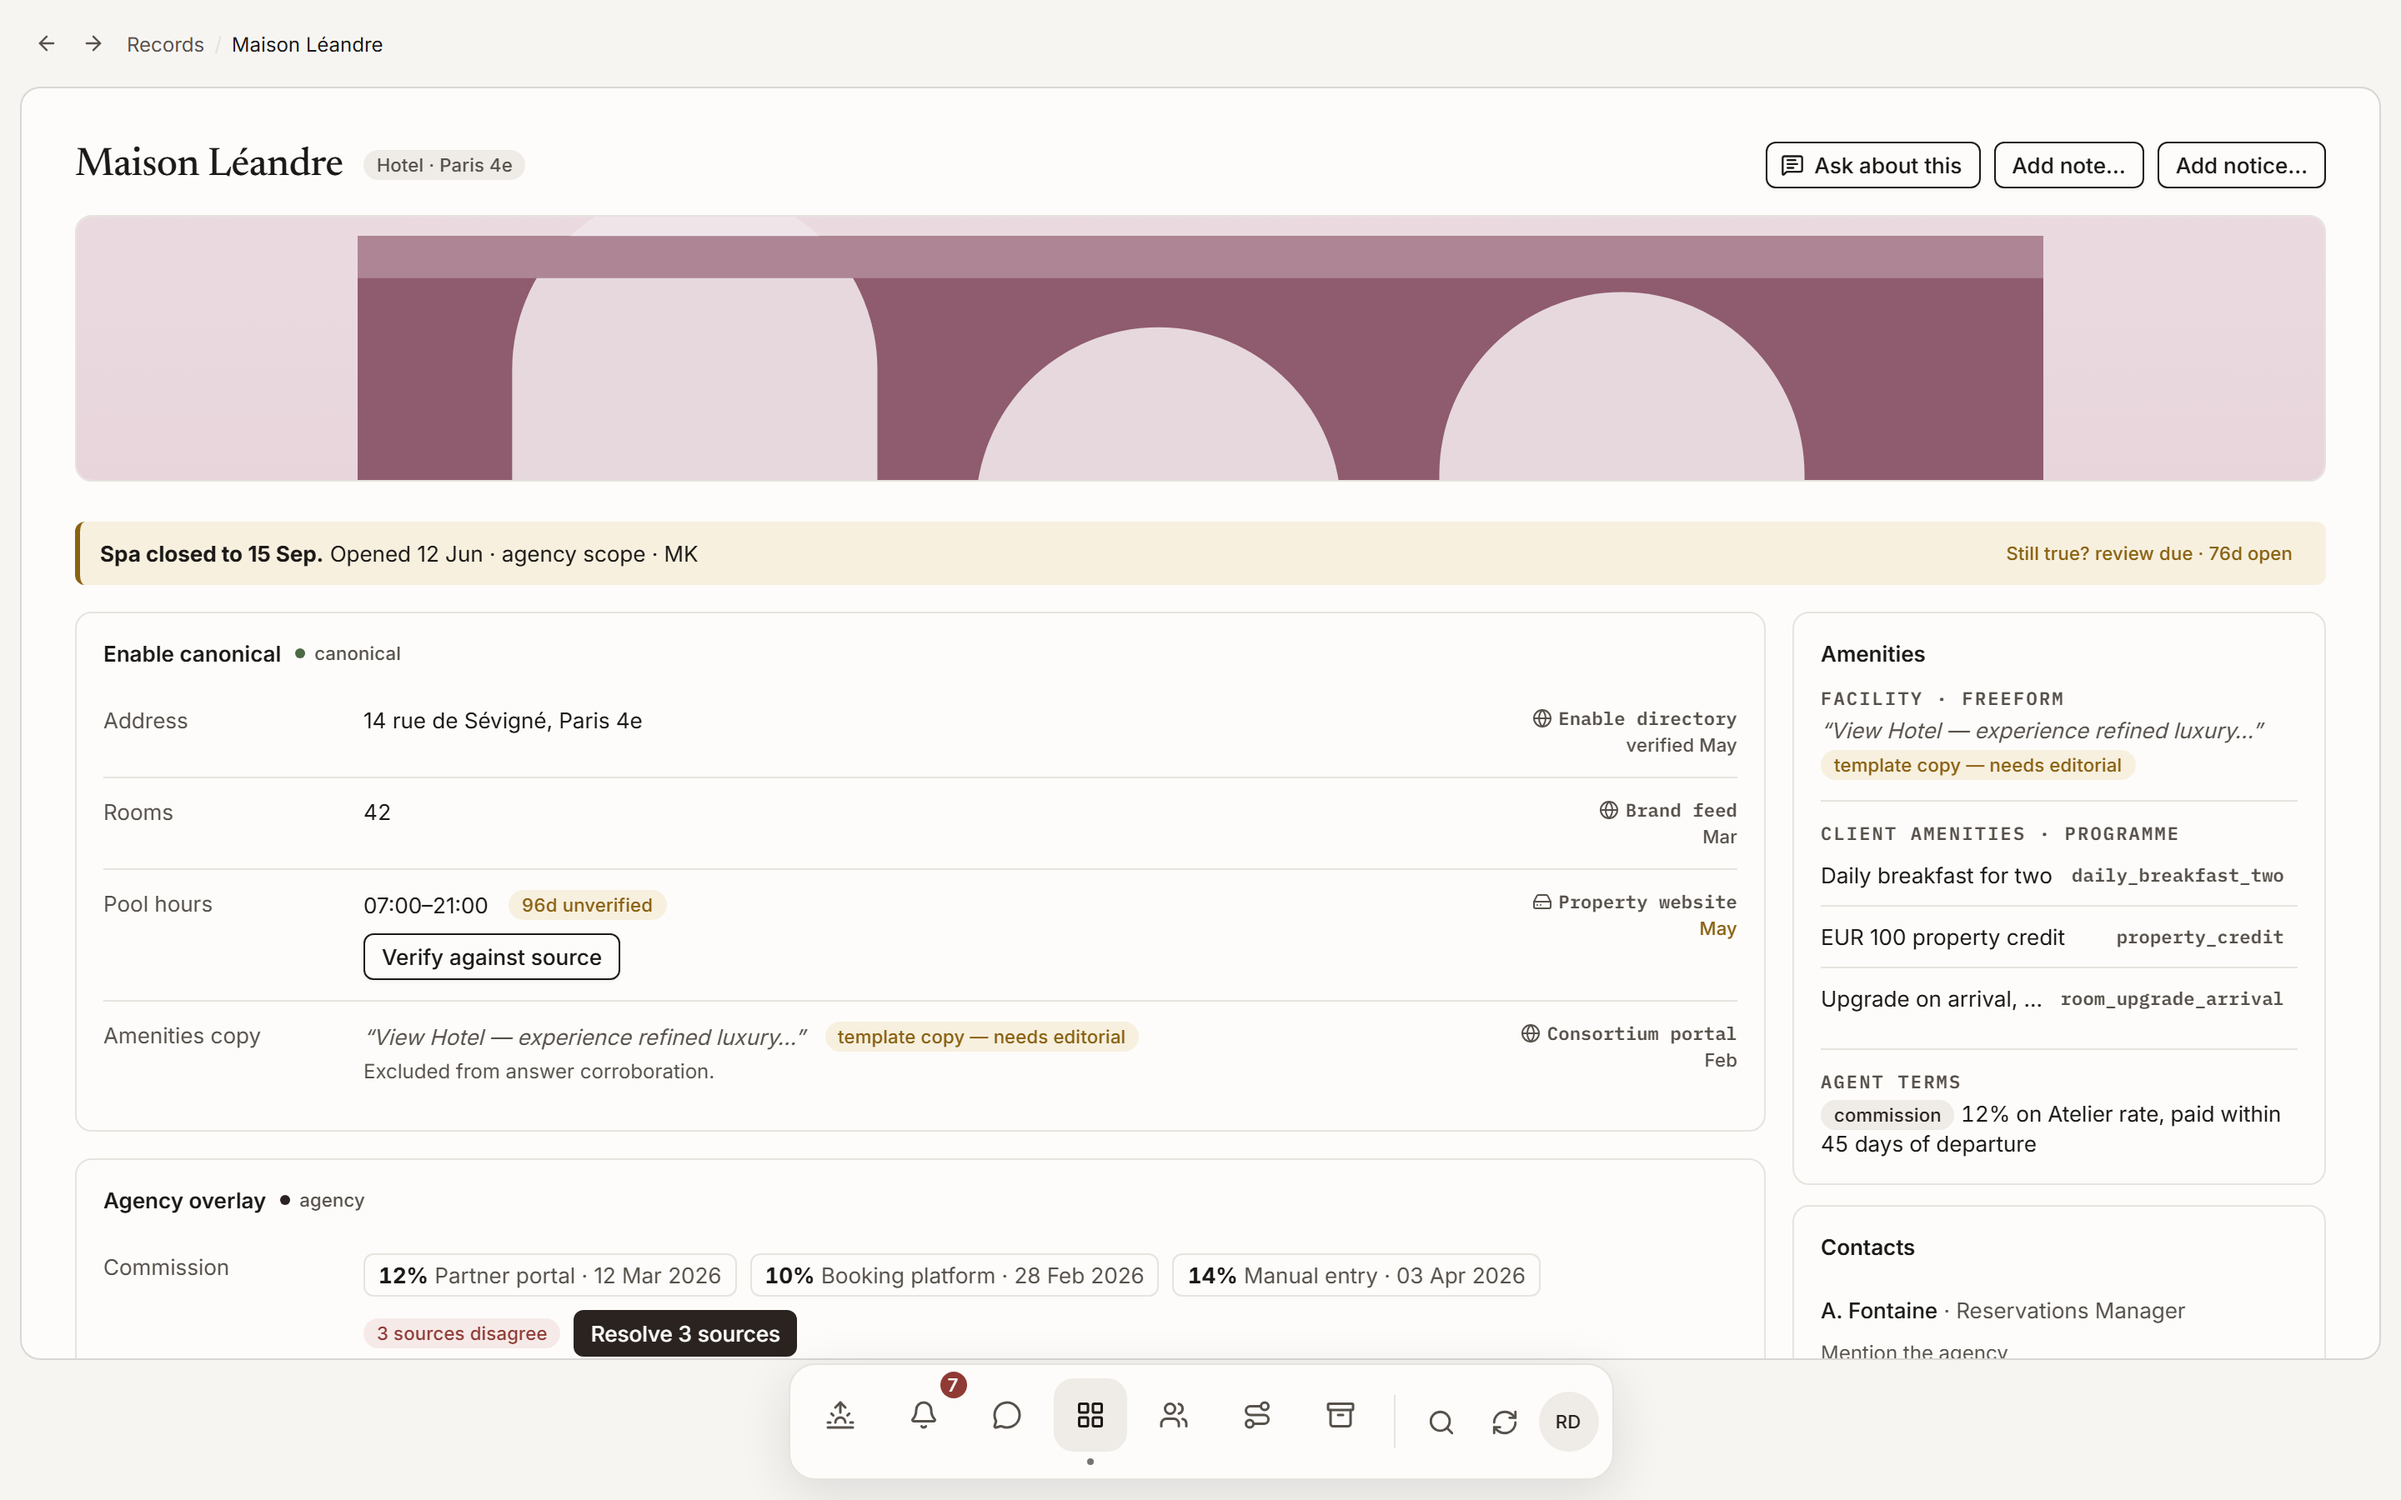
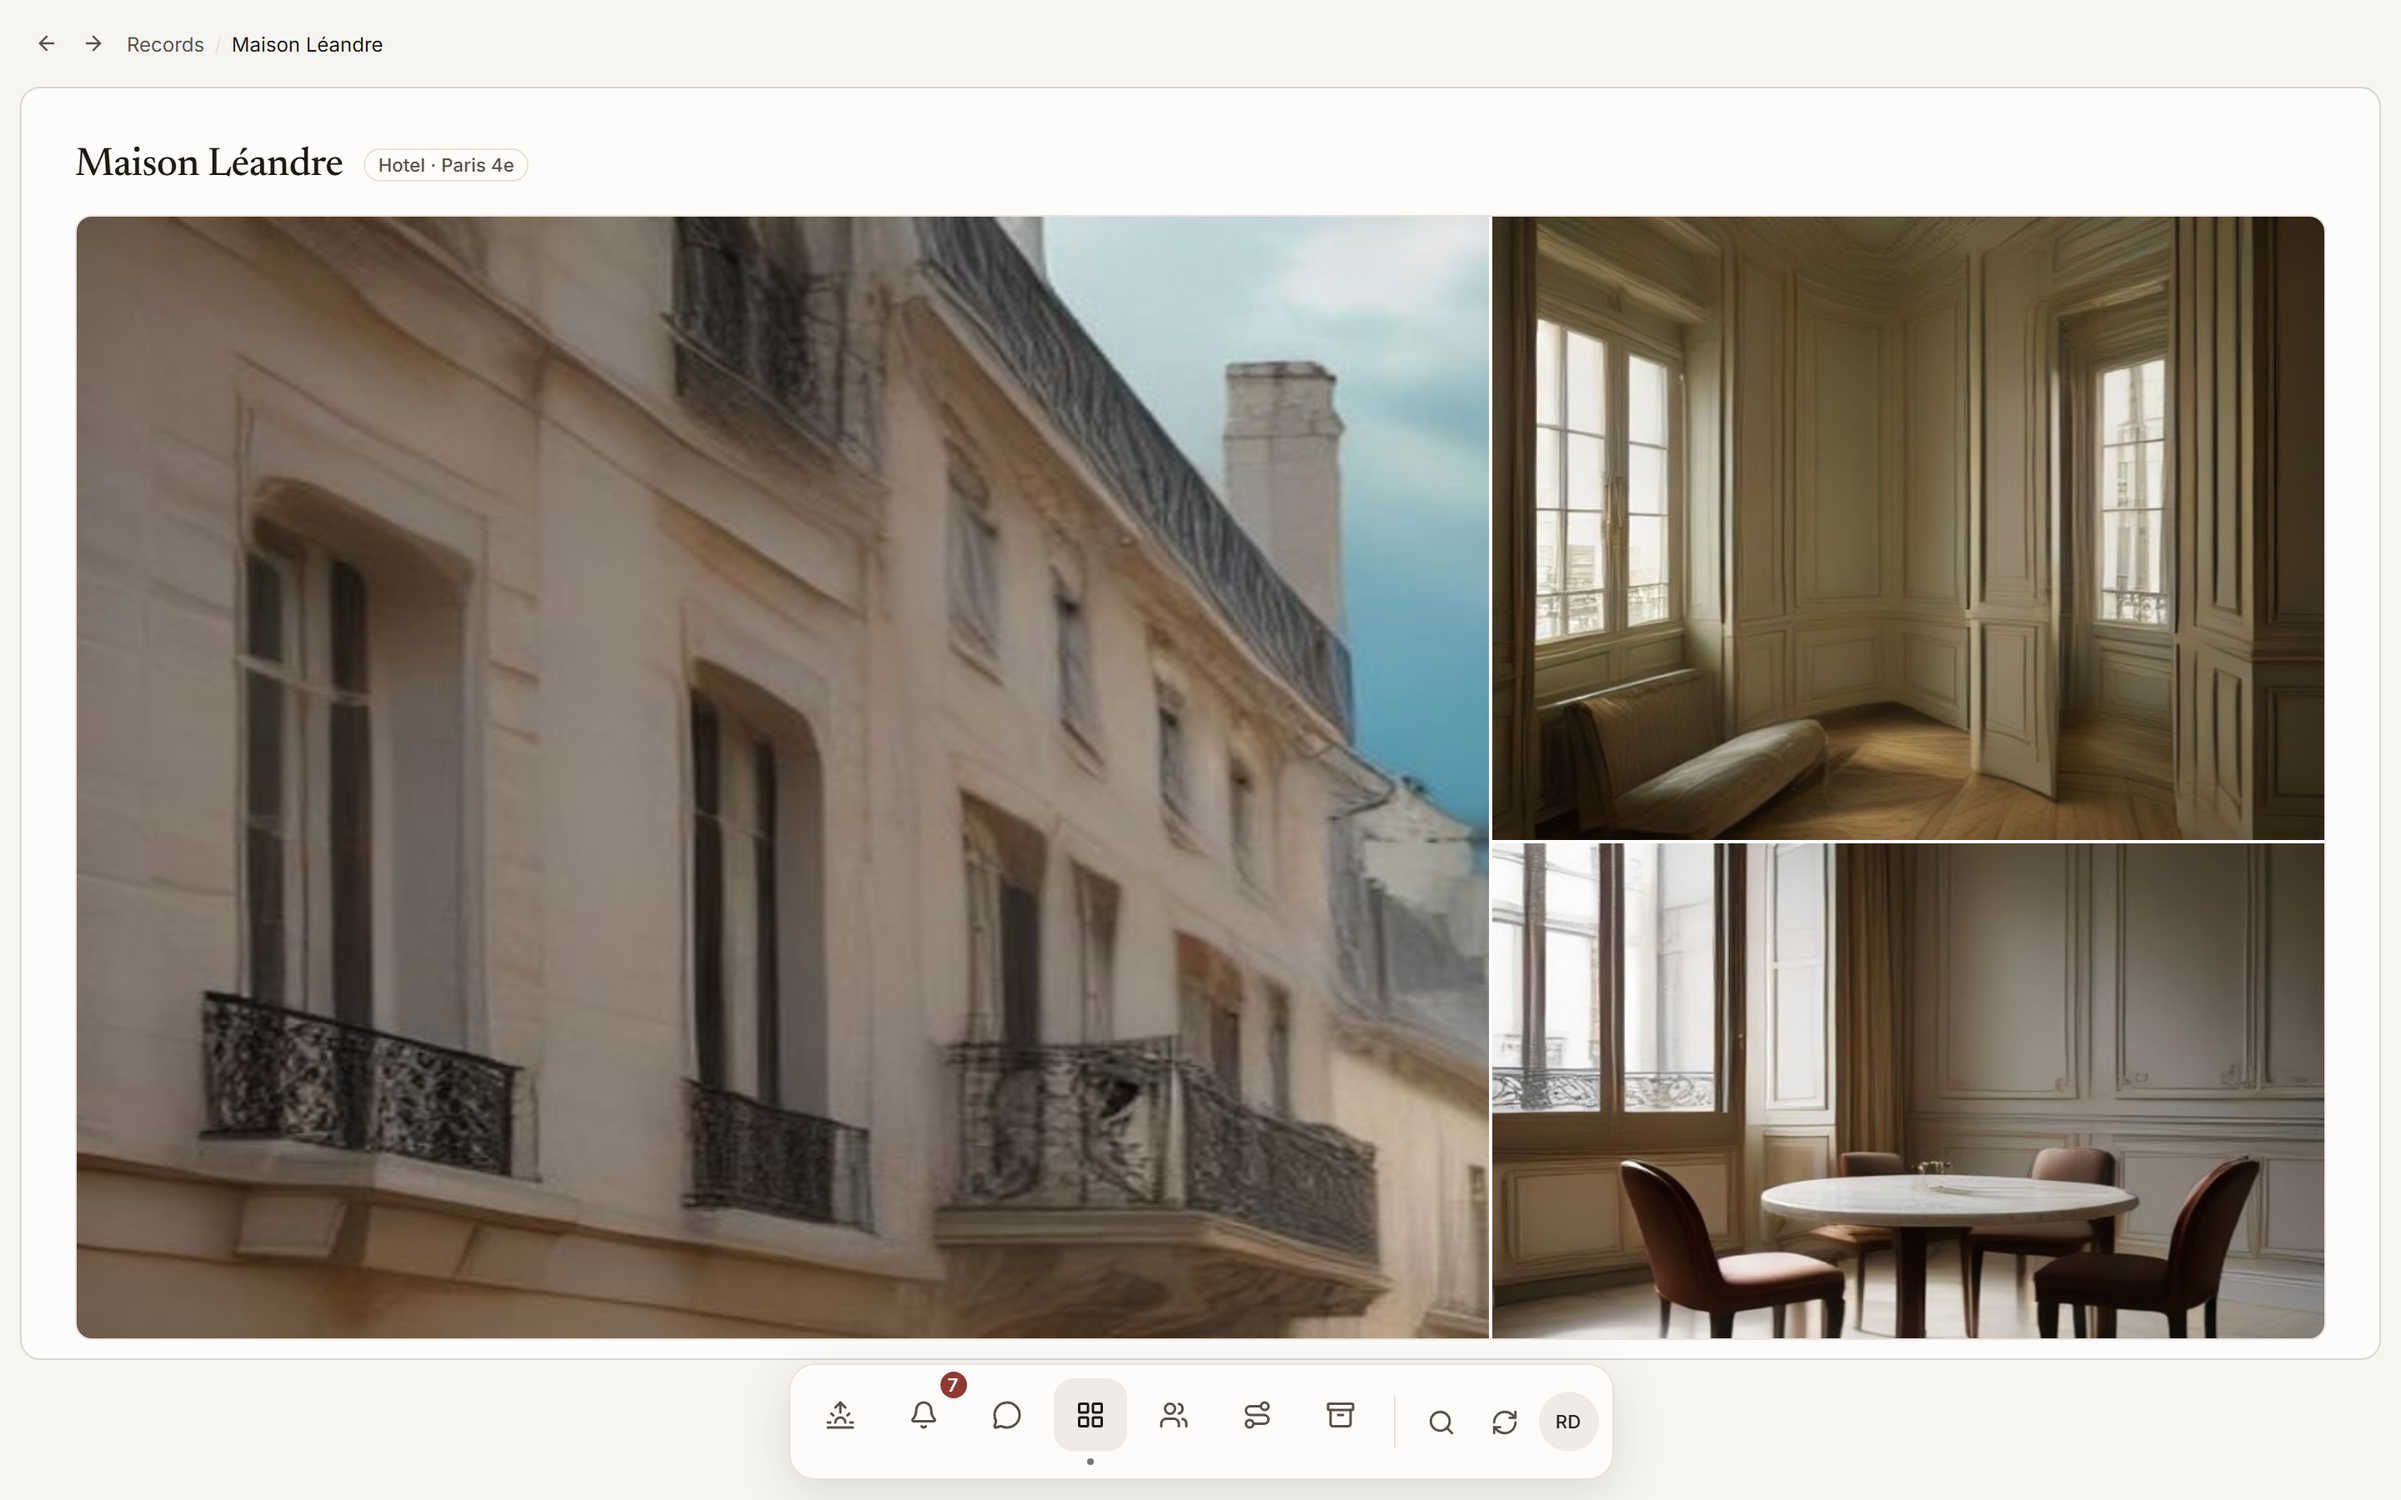
Recapture every screen; slide 10 takes the redesigned record
The record was rebuilt while we were working: photography instead of the
abstract placeholders, layer sections that say what a layer is, and a commission
card in the rail carrying "3 sources disagree" with its own resolve button.

That last change closes the first finding of the original review — the
disagreement was below the fold behind a decorative image, and it is now the
first thing the rail says.

Slide 10 uses a capture scrolled past the gallery, since the slide is about the
layers and the provenance rather than the photography.

All nineteen screens recaptured so nothing in the deck is stale, and the demo
script follows the page as it now behaves.

diff --git a/index.html b/index.html
@@ -161,7 +161,7 @@
         <figcaption>1 six systems in · 2 one model · 3–7 out to every surface</figcaption>
       </figure>
       <figure class="is-doc">
-        <div class="box"><img src="assets/screens/05-record.png" alt="A product record with canonical, agency and personal layers, and a source and date on every field."></div>
+        <div class="box"><img src="assets/screens/05-record-fields.png" alt="A product record: canonical and agency layers, a source and a date on every field, and a commission the sources disagree on."></div>
         <figcaption>4 the directory — one record from it</figcaption>
       </figure>
     </div>

diff --git a/demo-script.md b/demo-script.md
@@ -60,20 +60,26 @@ This is the longest and most important one. Budget seven minutes and protect it.
 **State:** press `0`, then `3`. Advisor, current build, `/records/maison-leandre`.
 
 **a. Provenance**
-1. Point at the three sections: canonical, agency overlay, personal. Say what each one is in one line.
-2. **Click a field value** — Address, or Rooms — to open its provenance popover. Press `Escape`.
-3. Point at **Pool hours · 96d unverified** and click **Verify against source**. It becomes
+1. The record opens on its photography. Say the property name, then scroll past it — the gallery is
+   orientation, not the point.
+2. Point at the three sections: canonical, agency overlay, personal. Each now carries a line saying
+   what the layer is: *published by Enable, not yours to edit* · *what your agency has decided, sitting
+   over the canonical value beneath it*.
+3. **Click a field value** — Address, or Rooms — to open its provenance popover. Press `Escape`.
+4. Point at **Pool hours · 96d unverified** and click **Verify against source**. It becomes
    *verified today · R. Devane*.
 
 **b. The disagreement**
-4. Scroll to **Commission** in the agency overlay. Three values: 12% partner portal, 10% booking
+5. Scroll to **Commission** in the agency overlay. Three values: 12% partner portal, 10% booking
    platform, 14% keyed by hand.
-5. Click **Resolve 3 sources**.
-6. Walk the sheet: every value keeps its source, its date, and how many others agree. The label is
+6. Click **Resolve 3 sources**. There are two of these — one on the commission row, one in the rail
+   at the top right beside *3 sources disagree*. The rail one is the safer click; it is visible without
+   scrolling and it is a filled button.
+7. Walk the sheet: every value keeps its source, its date, and how many others agree. The label is
    words, not a score — *signed terms*, *superseded rate*, *uncorroborated*.
-7. Point at **where this value goes** — the directory row, the quotes, the answers in chat.
-8. **Select any of the three.** Take 14% — the manual entry — precisely because a ranking rule would never have chosen it.
-9. Type a reason. Commit.
+8. Point at **where this value goes** — the directory row, the quotes, the answers in chat.
+9. **Select any of the three.** Take 14% — the manual entry — precisely because a ranking rule would never have chosen it.
+10. Type a reason. Commit.
 
 **c. Scope of what you write**
 10. Click **Add note…**, type a line.
@@ -112,7 +118,9 @@ their drive and not connecting it.
 - The colleague can still see a contact row reading **L. Berger · Commission contact**. If they spot
   it, that is a real gap and the honest answer is that the rule holds for values and not yet for
   the people attached to them.
-- The hero image pushes the commission row below the fold. Scroll before you talk.
+- The record opens on a three-image gallery, so the fields sit below the fold. The rail does show the
+  commission state on open — *pending · 3 sources disagree · Resolve 3 sources* — so you can point there
+  first and scroll second.
 
 ---
 
